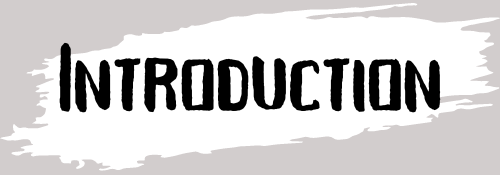
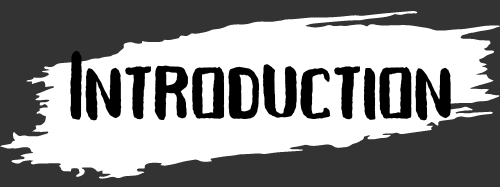
blog style updated

diff --git a/public/css/styles.css b/public/css/styles.css
@@ -14,6 +14,7 @@ header {
   top: 0;
   width: 100%;
   z-index: 6;
+  border-bottom: 2px solid #fff;
 }
 
 header .container {
@@ -241,7 +242,8 @@ section {
   position: relative;
     display: flex;
     padding: 100px 100px 30px;
-    background-color: #d2cdcd;
+    background-color: #333;
+    color: #fff;
     align-items: center;
 }
 
@@ -323,6 +325,7 @@ section {
 .contact .contactContent p {
   font-weight: 300;
   color: #fff;
+  font-size: 17px;
 }
 
 .contactContainer {
@@ -368,13 +371,14 @@ section {
 
 .contactContainer .contactInfo .contactInfoChild .text h3 {
   font-weight: 600;
-  color: #00bcd4;
+  color: #7effff;
 }
 
 .contactForm {
   width: 40%;
   padding: 40px;
   background: #fff;
+  border-radius: 5px;
 }
 
 .contactForm h2 {
@@ -438,9 +442,10 @@ section {
 
 }
 
-/* Thanks page for conatcting us */
+/* Thanks page for contacting us */
 .thanksContainer {
-  background-color: #fff;
+  position: relative;
+  background-color: #b1abff;
   display:flex;
   flex-direction: column;
   position: relative;
@@ -449,7 +454,23 @@ section {
   min-height: 100vh;
 }
 
+.thanksContainer p {
+  color: #333;
+  font-size: 20px;
+  font-weight: 500;
+  margin: 0 20px 20px;
+  padding: 10px;
+  background-color: #ffffff;
+  border-radius: 40px;
+}
+
 /* Compose Blog page Styling Starts here.. */
+.blogContainer {
+  padding: 100px 100px 50px;
+  min-height: 100vh;
+  background: linear-gradient(90deg, hsla(208, 7%, 55%, 1) 0%, hsla(191, 5%, 40%, 1) 100%);
+}
+
 .composeContainer {
   display: flex; 
   flex-direction: column;
@@ -537,8 +558,26 @@ section {
 
 
 /* Blog home page Styling starts here.. */
-.blogContainer {
+.blogPageContainer {
+  padding: 50px 100px 50px;
+  min-height: 100vh;
+  background: linear-gradient(90deg, hsla(208, 7%, 55%, 1) 0%, hsla(191, 5%, 40%, 1) 100%);
+}
+
+.blogIntro {
+  display: flex;
+  flex-direction: column;
+  justify-content: center;
   padding: 100px 100px 50px;
+  min-height: 50vh;
+  background-color: #333;
+  color: #fff;
+}
+
+.blogIntro p {
+  margin: 20px 0;
+  font-size: 15px;
+  font-family: Arial, Helvetica, sans-serif;
 }
 
 .singleBlogContainer {
@@ -578,8 +617,12 @@ section {
 
 
 @media screen and (max-width: 500px){
-  .blogContainer, .composeContainer {
+  .blogContainer, .composeContainer, .blogIntro {
     padding: 100px 10px 50px;
+  }
+
+  .blogPageContainer {
+    padding: 50px 10px 50px;
   }
 }
 

diff --git a/app.js b/app.js
@@ -10,6 +10,29 @@ app.use(express.static('public'));
 app.use(bodyParser.urlencoded({ limit: '10mb', extended: true }));
 app.use(bodyParser.json({ limit: '10mb' }));
 
+app.use((req, res, next) => {
+  const nonce = generateNonce(); // Generate a random nonce value
+
+  res.setHeader(
+    'Content-Security-Policy',
+    `default-src 'self'; style-src 'self' 'unsafe-inline' https://cdn.quilljs.com https://cdnjs.cloudflare.com; script-src 'self' https://cdn.quilljs.com 'nonce-${nonce}'; img-src 'self' data:; font-src 'self' https://cdnjs.cloudflare.com;`
+  );
+
+  res.locals.nonce = nonce; // Make nonce accessible in templates if needed
+
+  next();
+});
+
+function generateNonce() {
+  const chars = 'ABCDEFGHIJKLMNOPQRSTUVWXYZabcdefghijklmnopqrstuvwxyz0123456789';
+  let nonce = '';
+  for (let i = 0; i < 16; i++) {
+    nonce += chars.charAt(Math.floor(Math.random() * chars.length));
+  }
+  return nonce;
+}
+
+
 app.set('view engine', 'ejs');
 
 // Routes for different pages
